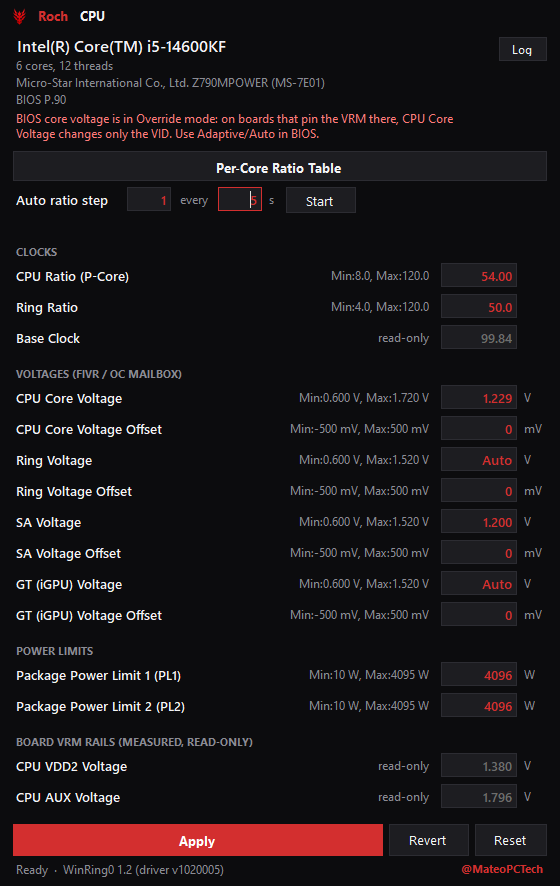
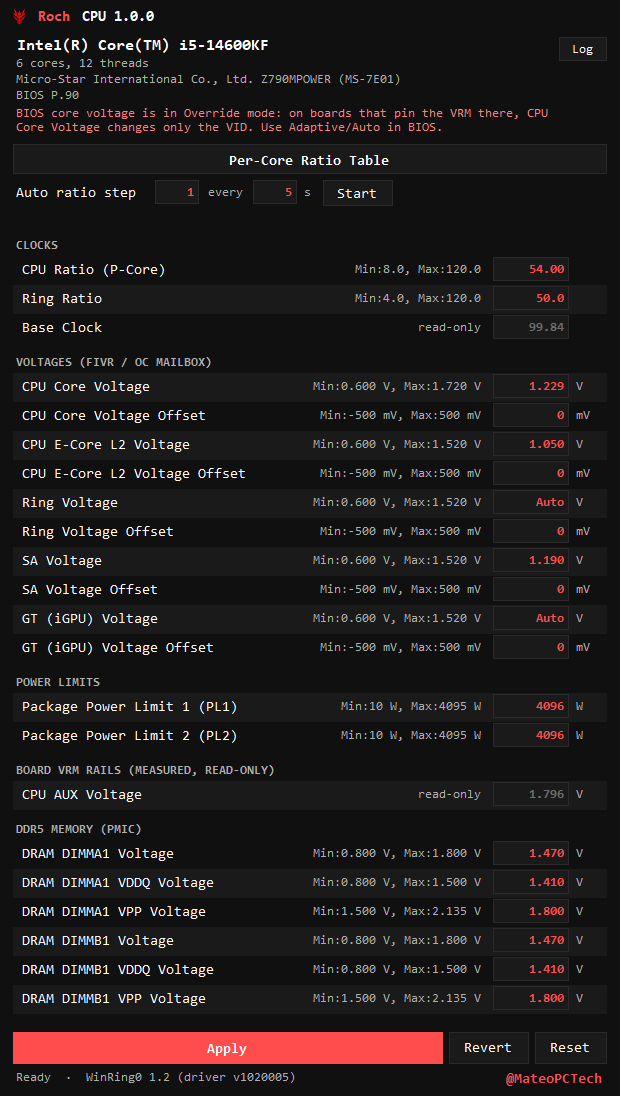
Fix the E-core L2 voltage domain, and match Roch Viewer's look
The OC mailbox domain for E-core L2 is 5, not 3. Read off the hardware rather
than taken from the usual tables: every domain was compared against the values
the vendor tool displays, and domain 4 held its "SA Voltage" (1.190 V) while
domain 5 held its "CPU E-Core L2 Voltage" (1.050 V), both to the millivolt.
Domain 3 is the uncore and reads zero here, so the old constant was addressing
a rail nobody had set. Domain 3 keeps a name of its own now.

The row is also no longer gated on the E-core count. That cluster's L2 rail
exists and takes writes with the E-cores switched off in the BIOS, which is
what the vendor tool shows. Verified end to end through the window:
1.050 -> 1.075 V applied and read back, then restored.

The palette and font now come from Roch Viewer's own constants rather than
approximating them - Consolas throughout, #101010 ground, #1A1A1A rows,
#FF4D4D for values - with alternating row shading, which is what makes its
tables read as tables. The footer handle picks up the same hover behaviour.
Consolas is wider than Segoe, so the window grew to fit the longest row
without wrapping.

diff --git a/src/RochPower/UI/MainForm.cs b/src/RochPower/UI/MainForm.cs
@@ -40,6 +40,7 @@ public sealed class MainForm : Form
     private readonly System.Windows.Forms.Timer _autoTimer = new();
     private readonly System.Windows.Forms.Timer _slowRefresh = new() { Interval = 3000 };
     private bool _bclkBusy;
+    private int _rowIndex;
 
     public MainForm()
     {
@@ -50,8 +51,8 @@ public sealed class MainForm : Form
         ForeColor = Theme.Text;
         FormBorderStyle = FormBorderStyle.None;
         StartPosition = FormStartPosition.CenterScreen;
-        MinimumSize = new Size(520, 420);
-        Size = new Size(560, 760);
+        MinimumSize = new Size(600, 420);
+        Size = new Size(620, 760);
         KeyPreview = true;
         DoubleBuffered = true;
 
@@ -171,8 +172,18 @@ public sealed class MainForm : Form
         status.ColumnStyles.Add(new ColumnStyle(SizeType.AutoSize));
         _lblStatus.AutoSize = true;
         status.Controls.Add(_lblStatus, 0, 0);
-        var author = new LinkLabel { Text = Theme.Author, LinkColor = Theme.Accent, ActiveLinkColor = Theme.Warn, VisitedLinkColor = Theme.Accent, LinkBehavior = LinkBehavior.NeverUnderline, Font = Theme.SmallBold, AutoSize = true, BackColor = Color.Transparent, Margin = new Padding(6, 0, 0, 0) };
+        // Roch Viewer's footer handle: brand red, bold, no underline, and colour is the whole
+        // affordance - there is no button edge, so it lifts a shade under the pointer.
+        var author = new LinkLabel
+        {
+            Text = Theme.Author, LinkColor = Theme.Accent, ActiveLinkColor = Theme.Warn, VisitedLinkColor = Theme.Accent,
+            LinkBehavior = LinkBehavior.NeverUnderline, Font = Theme.Bold, AutoSize = true,
+            BackColor = Color.Transparent, Cursor = Cursors.Hand, Margin = new Padding(6, 0, 0, 0)
+        };
         author.LinkClicked += (_, _) => { try { System.Diagnostics.Process.Start(new System.Diagnostics.ProcessStartInfo(Theme.AuthorUrl) { UseShellExecute = true }); } catch { } };
+        author.MouseEnter += (_, _) => author.LinkColor = Theme.Warn;
+        author.MouseLeave += (_, _) => author.LinkColor = Theme.Accent;
+        new ToolTip().SetToolTip(author, Theme.AuthorUrl);
         status.Controls.Add(author, 1, 0);
         _body.Controls.Add(status, 0, 4);
 
@@ -191,6 +202,7 @@ public sealed class MainForm : Form
         _rows.Controls.Clear();
         _rows.RowStyles.Clear();
         _boxes.Clear(); _statusLabels.Clear(); _rangeLabels.Clear();
+        _rowIndex = 0;
         SettingGroup? last = null;
         foreach (var s in _hw.Settings)
         {
@@ -211,14 +223,16 @@ public sealed class MainForm : Form
                 }));
             }
 
-            var row = new TableLayoutPanel { AutoSize = true, ColumnCount = 4, Dock = DockStyle.Top, BackColor = Theme.Bg, Margin = new Padding(0, 0, 0, 2) };
+            // Alternating row shading, the way Roch Viewer's tables read.
+            var rowBack = (_rowIndex++ % 2 == 0) ? Theme.Bg : Theme.PanelAlt;
+            var row = new TableLayoutPanel { AutoSize = true, ColumnCount = 4, Dock = DockStyle.Top, BackColor = rowBack, Margin = new Padding(0) };
             row.ColumnStyles.Add(new ColumnStyle(SizeType.Percent, 100));
             row.ColumnStyles.Add(new ColumnStyle(SizeType.AutoSize));
             row.ColumnStyles.Add(new ColumnStyle(SizeType.AutoSize));
             row.ColumnStyles.Add(new ColumnStyle(SizeType.AutoSize));
 
             var name = Theme.Label(s.Name, Theme.Row, Theme.Text);
-            name.Margin = new Padding(0, 5, 0, 0);
+            name.Margin = new Padding(6, 5, 0, 5);
             var range = Theme.Muted_(s.ReadOnly ? "read-only" : s.RangeText);
             range.Margin = new Padding(8, 6, 8, 0);
             range.TextAlign = ContentAlignment.MiddleRight;
@@ -244,7 +258,7 @@ public sealed class MainForm : Form
     private void FitToContent()
     {
         _body.PerformLayout();
-        int needed = _body.PreferredSize.Height + 30 /* title bar */ + 4;
+        int needed = _body.PreferredSize.Height + 30 /* title bar */ + 12;
         var work = Screen.FromControl(this).WorkingArea;
         int height = Math.Min(needed, work.Height - 40);
         Height = Math.Max(MinimumSize.Height, height);

diff --git a/src/RochPower/UI/Theme.cs b/src/RochPower/UI/Theme.cs
@@ -8,28 +8,37 @@ namespace RochPower.UI;
 /// </summary>
 public static class Theme
 {
-    public static readonly Color Bg = ColorTranslator.FromHtml("#0C0C0E");
-    public static readonly Color Panel = ColorTranslator.FromHtml("#151517");
-    public static readonly Color PanelAlt = ColorTranslator.FromHtml("#1D1D21");
-    public static readonly Color Border = ColorTranslator.FromHtml("#2C2C32");
-    public static readonly Color Text = ColorTranslator.FromHtml("#F3F3F5");
-    public static readonly Color Muted = ColorTranslator.FromHtml("#8B8B94");
-    public static readonly Color Accent = ColorTranslator.FromHtml("#D32F2F");
-    public static readonly Color AccentDim = ColorTranslator.FromHtml("#6E1717");
-    public static readonly Color Warn = ColorTranslator.FromHtml("#FF7A7A");
-    public static readonly Color Danger = ColorTranslator.FromHtml("#E53935");
-    public static readonly Color Ok = ColorTranslator.FromHtml("#9A9AA4");
+    // Palette shared with Roch Viewer's dark theme, taken from its own constants so the two
+    // tools read as one family rather than merely similar.
+    public static readonly Color Bg = ColorTranslator.FromHtml("#101010");        // BG_COLOR
+    public static readonly Color Panel = ColorTranslator.FromHtml("#161616");     // BG_COLOR2 / SECTION_COLOR
+    public static readonly Color PanelAlt = ColorTranslator.FromHtml("#1A1A1A");  // ROW_COLOR
+    public static readonly Color Header = ColorTranslator.FromHtml("#1C1C1C");    // HEADER_COLOR
+    public static readonly Color Highlight = ColorTranslator.FromHtml("#171717"); // HIGHLIGHT_COLOR
+    public static readonly Color Border = ColorTranslator.FromHtml("#2A2A2A");
+    public static readonly Color Text = ColorTranslator.FromHtml("#FFFFFF");      // TEXT_COLOR
+    public static readonly Color Muted = ColorTranslator.FromHtml("#B0B0B0");     // SUBTITLE_COLOR
+    public static readonly Color Accent = ColorTranslator.FromHtml("#FF4D4D");    // BRAND_COLOR / VALUE_COLOR
+    public static readonly Color AccentDim = ColorTranslator.FromHtml("#5D1A1A");
+    public static readonly Color Hairline = ColorTranslator.FromHtml("#C53F3F");  // HAIRLINE_COLOR
+    public static readonly Color Warn = ColorTranslator.FromHtml("#FF8080");      // BRAND_HOVER_COLOR
+    public static readonly Color Danger = ColorTranslator.FromHtml("#FF4D4D");
+    public static readonly Color Ok = ColorTranslator.FromHtml("#B0B0B0");
 
-    public static readonly Font Base = new("Segoe UI", 9.75f);
-    public static readonly Font Bold = new("Segoe UI", 9.75f, FontStyle.Bold);
-    public static readonly Font Small = new("Segoe UI", 8.5f);
-    public static readonly Font SmallBold = new("Segoe UI", 8.25f, FontStyle.Bold);
-    public static readonly Font Row = new("Segoe UI Semibold", 9.5f);
-    public static readonly Font Value = new("Segoe UI Semibold", 9.5f);
-    public static readonly Font Big = new("Segoe UI Semibold", 11.5f);
-    public static readonly Font Brand = new("Segoe UI", 9.75f, FontStyle.Bold);
+    // Roch Viewer is monospace throughout (Consolas). It uses size 12 for body text; 10 here
+    // keeps the same character while letting every row stay on screen without scrolling.
+    private const string Family = "Consolas";
+    private const float Size = 10f;
+    public static readonly Font Base = new(Family, Size);
+    public static readonly Font Bold = new(Family, Size, FontStyle.Bold);
+    public static readonly Font Small = new(Family, Size - 1f);
+    public static readonly Font SmallBold = new(Family, Size - 1f, FontStyle.Bold);
+    public static readonly Font Row = new(Family, Size);
+    public static readonly Font Value = new(Family, Size, FontStyle.Bold);
+    public static readonly Font Big = new(Family, Size + 2f, FontStyle.Bold);
+    public static readonly Font Brand = new(Family, Size + 1f, FontStyle.Bold);
     public static readonly Font Glyph = new("Segoe MDL2 Assets", 8f);
-    public static readonly Font Mono = new("Consolas", 8.75f);
+    public static readonly Font Mono = new(Family, Size - 1f);
 
     public const string Author = "@MateoPCTech";
     public const string AuthorUrl = "https://x.com/MateoPCTech";

diff --git a/src/RochPower/Core/HardwareModel.cs b/src/RochPower/Core/HardwareModel.cs
@@ -291,7 +291,9 @@ public sealed class HardwareModel : IDisposable
         }
         bool DomainReadable(int d) { try { mb!.ReadDomain(d); return true; } catch { return false; } }
         AddDomain("core", "CPU Core", OcMailbox.DOMAIN_CORE, 0.600, 1.720, mbOk && DomainReadable(OcMailbox.DOMAIN_CORE));
-        AddDomain("ecore", "CPU E-Core L2", OcMailbox.DOMAIN_ECORE, 0.600, 1.520, mbOk && cpu is { ECoreCount: > 0 } && DomainReadable(OcMailbox.DOMAIN_ECORE));
+        // Not gated on the E-core count: the L2 rail for that cluster exists and is settable even
+        // when the E-cores are switched off in the BIOS, which is exactly what the vendor tool shows.
+        AddDomain("ecore", "CPU E-Core L2", OcMailbox.DOMAIN_ECORE, 0.600, 1.520, mbOk && DomainReadable(OcMailbox.DOMAIN_ECORE));
         AddDomain("ring", "Ring", OcMailbox.DOMAIN_RING, 0.600, 1.520, mbOk && DomainReadable(OcMailbox.DOMAIN_RING));
         AddDomain("sa", "SA", OcMailbox.DOMAIN_SA, 0.600, 1.520, mbOk && DomainReadable(OcMailbox.DOMAIN_SA));
         AddDomain("gt", "GT (iGPU)", OcMailbox.DOMAIN_GT, 0.600, 1.520, mbOk && DomainReadable(OcMailbox.DOMAIN_GT));
@@ -326,7 +328,10 @@ public sealed class HardwareModel : IDisposable
             Id = "bclk", Name = "Base Clock", Group = SettingGroup.Clocks, Min = 10, Max = 655.25, Decimals = 2,
             Read = () => LastBclk,
             Write = null,
-            Note = "Measured from TSC vs ACPI timer. Read-only: BCLK programming needs the board's clock generator, which is board firmware specific.",
+            Note = "Measured against the ACPI timer, so this is the real frequency rather than the programmed one. " +
+                   "Read-only: setting BCLK at runtime needs either an external clock generator on the SMBus or the Intel ICC over HECI, " +
+                   "and on a board with neither there is nothing to write. MSI's own tool shows an editable field here that does not " +
+                   "work either - measured on a Z790MPOWER, it accepted 101.00 while the rail stayed at 99.84 MHz.",
             Available = Bclk?.IsAvailable == true && BaseRatio > 0
         });
     }
@@ -499,10 +504,8 @@ public sealed class HardwareModel : IDisposable
                 Read = () => sio.ReadVoltage(rail), Write = null, Note = note, Available = true
             });
         }
-        AddBoardRail("cpu_vdd2", IsAmd ? "SoC / VDD2 Rail" : "CPU VDD2 Voltage", Hardware.SuperIo.RailVdd2,
-            "Measured at the board. It is produced by the motherboard VRM and has no CPU register, so it cannot be set from here - only from the BIOS or the board vendor's own tool.");
         AddBoardRail("cpu_aux", "CPU AUX Voltage", Hardware.SuperIo.RailAux,
-            "CPU AUX rail, measured at the board. Board VRM only, same as VDD2: no CPU-side path to set it.");
+            "CPU AUX rail, measured at the board. It is produced by the motherboard VRM and has no CPU register, so it cannot be set from here - only from the BIOS or the board vendor's own tool.");
     }
 
     private void BuildDimms()

diff --git a/src/RochPower/Hardware/OcMailbox.cs b/src/RochPower/Hardware/OcMailbox.cs
@@ -28,13 +28,18 @@ public sealed class OcMailbox
     public const byte CMD_READ_ICCMAX = 0x16;
     public const byte CMD_WRITE_ICCMAX = 0x17;
 
-    // Domain indices (Intel OC library: IA core, GT, ring, uncore, system agent).
-    // Verified on a Raptor Lake-S / Z790 system: domain 4 carries the BIOS "SA Voltage" override.
-    public const int DOMAIN_CORE = 0;   // IA cores (P-cores)
-    public const int DOMAIN_GT = 1;     // Graphics
-    public const int DOMAIN_RING = 2;   // Ring / LLC (cache)
-    public const int DOMAIN_ECORE = 3;  // Uncore / E-core L2 on hybrid parts
-    public const int DOMAIN_SA = 4;     // System agent
+    // Domain indices. Read off the hardware rather than taken from the usual documentation, by
+    // comparing every domain against the values the vendor tool displays on a Raptor Lake-S /
+    // Z790 board: domain 4 held the BIOS "SA Voltage" (1.190 V) and domain 5 the
+    // "CPU E-Core L2 Voltage" (1.050 V), both matching to the millivolt. Domain 3 is the uncore
+    // and reads zero here. Published tables commonly list E-core L2 as 3, which is wrong on
+    // this part - reading domain 3 gets a rail nobody set.
+    public const int DOMAIN_CORE = 0;    // IA cores (P-cores)
+    public const int DOMAIN_GT = 1;      // Graphics
+    public const int DOMAIN_RING = 2;    // Ring / LLC (cache)
+    public const int DOMAIN_UNCORE = 3;  // Uncore
+    public const int DOMAIN_SA = 4;      // System agent
+    public const int DOMAIN_ECORE = 5;   // E-core L2 (present even when the E-cores are disabled)
 
     private readonly IKernelDriver _drv;
     private readonly int _cpu;
